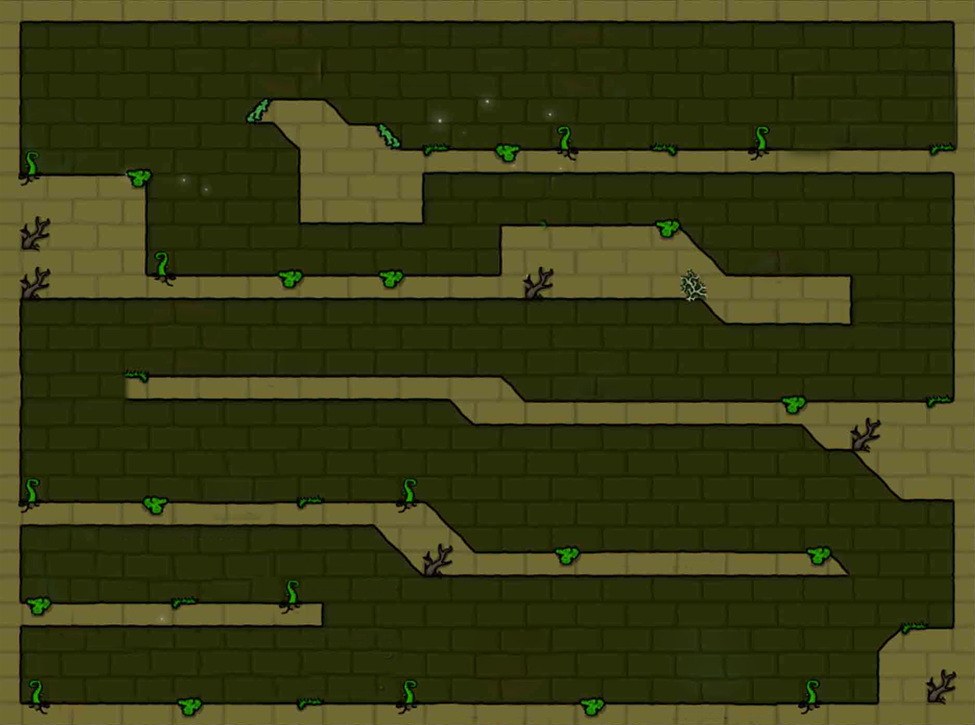
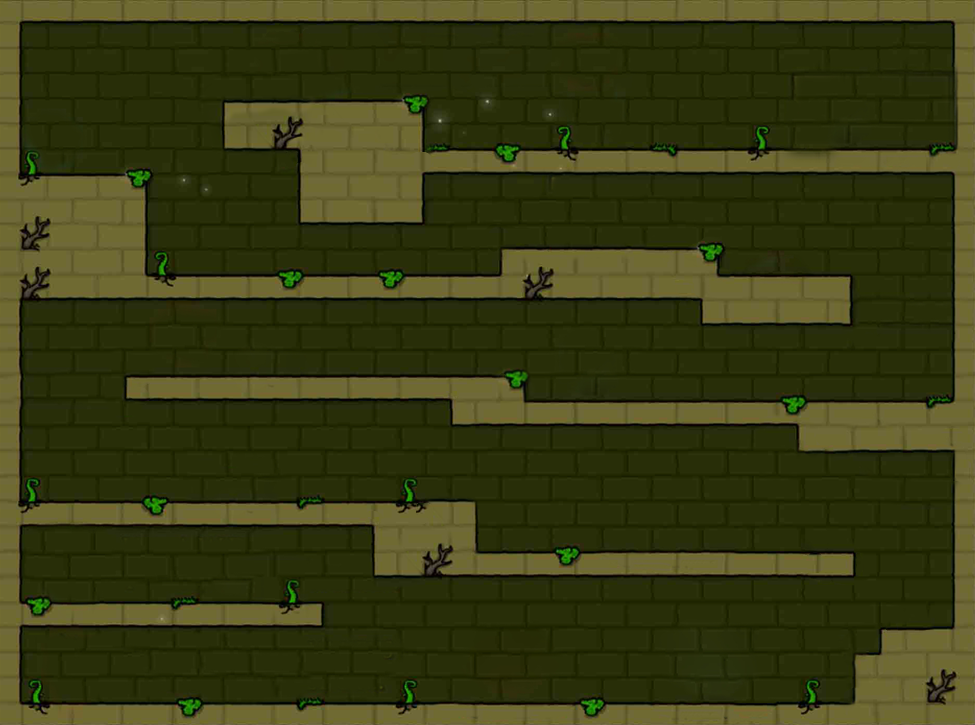
add_level3_map

diff --git a/src/App.cpp b/src/App.cpp
@@ -81,15 +81,19 @@ App::App() {
 
   // 設置按鈕點擊事件回調
   m_Level3Button->SetOnClickCallback([this]() {
-    m_CurrentState = State::GAME_PLAY;
-    m_Level1Button->SetVisible(false);
-    m_Level2Button->SetVisible(false);
-    m_Level3Button->SetVisible(false);
-    m_Level4Button->SetVisible(false);
-    m_Level5Button->SetVisible(false);
-    m_BackButton->SetVisible(false);
-    m_LevelSelectBackground->SetVisible(false);
-    m_Level3Background->SetVisible(true);
+      ResetGame();
+
+      m_Level1Button->SetVisible(false);
+      m_Level2Button->SetVisible(false);
+      m_Level3Button->SetVisible(false);
+      m_Level4Button->SetVisible(false);
+      m_Level5Button->SetVisible(false);
+      m_BackButton->SetVisible(false);
+      m_LevelSelectBackground->SetVisible(false);
+
+      m_Level3Background->SetVisible(true);
+      m_CurrentLevel = 3;
+      m_IsGridLoaded = false;
   });
 
   m_Root.AddChild(m_Level3Button);
@@ -166,11 +170,15 @@ App::App() {
 
   // 第二關背景
   m_Level2Background = std::make_shared<BackgroundImage>(
-      RESOURCE_DIR "/material/background/rlevel2-clear.png");
+      RESOURCE_DIR "/material/background/rlevel2.png");
   m_Level2Background->SetVisible(false);
   m_Root.AddChild(m_Level2Background);
 
   // 第三關背景
+  m_Level3Background = std::make_shared<BackgroundImage>(
+  RESOURCE_DIR "/material/background/rlevel3.png");
+  m_Level3Background->SetVisible(false);
+  m_Root.AddChild(m_Level3Background);
   // 第四關背景
   // 第五關背景
 
@@ -225,7 +233,7 @@ App::App() {
 
     m_Level1Background->SetVisible(false);
     m_Level2Background->SetVisible(false);
-    // m_Level3Background->SetVisible(false);
+    m_Level3Background->SetVisible(false);
     // m_Level4Background->SetVisible(false);
     // m_Level5Background->SetVisible(false);
   });
